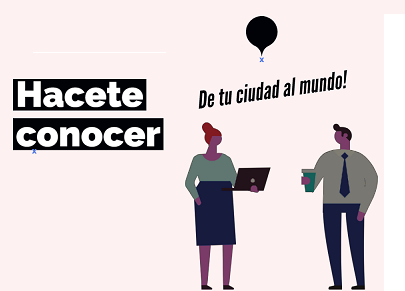
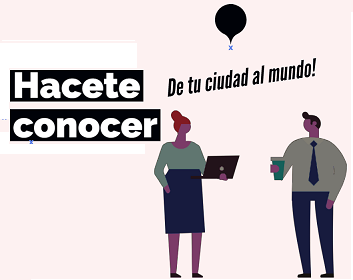
responsive

Changed region(s): [[0.0, 0.2, 0.9037, 1.0], [0.7167, 0.4, 0.9972, 1.0], [0.5921, 0.0, 0.7167, 0.2286]]

diff --git a/src/App.js b/src/App.js
@@ -8,11 +8,12 @@ import SectionImg from "./components/SectionImg/SectionImg";
 import opiniones from "../src/imgs/opiniones.png";
 import Card from "./components/Card/Card";
 import opinionesDos from"../src/imgs/haceteConocer.png"
+import pago from "../src/imgs/pago.jpg"
 function App() {
   return (
     <>
       <Main>
-        <div className="d-flex justify-content-around mt-4 ">
+        <div className="d-flex justify-content-around mt-4 header">
           <TextTitles
             claseCont={"cont-title"}
             img={iconBlack}
@@ -38,9 +39,10 @@ function App() {
           Title3={"100% 📴"}
           p3={"Adaptable a todos los dispositivos."}
         />
-        <div>
+        <div >
           <SectionImg
-            img2={opiniones}
+          img1={opiniones}
+           
             pClass={"SectionImg__p"}
             title={"Elegí el diseño que se adapte a tus necesidades"}
             p={
@@ -48,35 +50,24 @@ function App() {
             }
             btnClass={"btn btn-dark text-light"}
             button={"Escoge tu plan"}
+           
           />
-
-         <div className="sectImgMargin d-flex justify-content-evenly">
           
             <SectionImg
               imgSectImg={"CardHorizontal"}
               pClass="SectionImg__p"
               title={"Cobrar nunca fue tan fácil"}
               p={
-                "Soporte para mas de +60 medios de pago incluidos MercadoPago - Tarjetas de credito/debito - BTC. Que el medio de pago no sea excusa para tus clientes, Rapido - seguro y sin vueltas."
+                "Soporte para mas de +60 medios de pago incluidos MercadoPago - Tarjetas de credito/debito - BTC."
               }
               btnClass={"btn btn-dark text-light w-25"}
               button={"+ INFO"}
               img1={opinionesDos}
             />
-
-           <SectionImg
-              imgSectImg={"CardHorizontal"}
-              pClass="SectionImg__p"
-              title={"Cobrar nunca fue tan fácil"}
-              p={
-                "Soporte para mas de +60 medios de pago incluidos MercadoPago - Tarjetas de credito/debito - BTC. Que el medio de pago no sea excusa para tus clientes, Rapido - seguro y sin vueltas."
-              }
-              btnClass={"btn btn-dark text-light w-25"}
-              button={"+ INFO"}
-              img1={opinionesDos}
-            />
-         </div>
+  
+       
         </div>
+
         <DivBar
           Title1={"1"}
           p1={"Registrate"}

diff --git a/src/components/SectionImg/SectionImg.jsx b/src/components/SectionImg/SectionImg.jsx
@@ -3,10 +3,10 @@ import "./SectionImg.css"
 const SectionImg = ({title,p,button,btnClass,pClass,img1,img2,ClassImgSect,imgSectImg}) => {
   return (
 
-    <div className={`${ClassImgSect} d-flex mt-5 justify-content-around mb-5 align-items-center `}>
+    <div className={`${ClassImgSect} sectionImgClass `}>
       
-        <div  className="imgSecthead ">
-      <img  className='shadow-lg p-3 mb-5 bg-white rounded' src={img1} />
+        <div  className={`imgSecthead`}>
+      
  <div className={imgSectImg}>
     <h2>{title}</h2>
     <p className={pClass}>
@@ -19,7 +19,7 @@ const SectionImg = ({title,p,button,btnClass,pClass,img1,img2,ClassImgSect,imgSe
   </div>
   <div>
   </div>
-      <img className='shadow-lg p-3 mb-5 bg-white rounded' src={img2} />
+      <img className='shadow-lg p-3 mb-5 bg-white rounded' src={img1} />
   </div>
   )
 }

diff --git a/src/components/SectionImg/SectionImg.css b/src/components/SectionImg/SectionImg.css
@@ -1,12 +1,42 @@
-.imgText{
-    width: 45%;
-    margin: 0px;
+
+@media (max-width: 890px){
+  .sectionImgClass{
+display: flex;
+flex-direction: column-reverse;
+
   }
 
   .imgSecthead{
-     width: 50%;
-     margin: 0 auto;
+
+    display: flex;
+    align-items: center; 
+    margin: 0 auto;
+    text-align: center;
   }
+
+  .SectionImg__p{
+   
+   
+   margin: 0 auto;
+   
+  }
+  .imgSecthead button{
+    margin-top:15px;
+  }
+}
+
+.sectionImgClass{
+display: flex;
+margin-top: 30px;
+justify-content: space-around;
+margin-bottom: 20px;
+align-items: center;
+
+
+}
+
+
+
 
   .CardHorizontal{
       width:500px;
@@ -21,6 +51,7 @@
 
 
  .SectionImg__p{
-     
+     width: 400px;
      font-weight: bold;
  }
+

diff --git a/src/App.css b/src/App.css
@@ -3,3 +3,19 @@
    
     
 }
+
+@media (max-width: 800px){
+    .header{
+    display:flex;
+    flex-direction: column;
+    justify-content: center;
+    text-align: center;
+    margin:0 auto;
+    }
+
+    .sectionImgTwo{
+        display: flex;
+        flex-direction: column !important;
+    }
+}
+

diff --git a/src/components/Text-titles/TextTitles.css b/src/components/Text-titles/TextTitles.css
@@ -1,3 +1,11 @@
+@media (max-width: 801px){
+  .cont-title{
+ margin: 0 auto;
+ border: solid 1px;
+ box-sizing: 600px;
+  }  
+}
+
 .cont-title{
   width: 400px;
 margin-top: 50px;}
